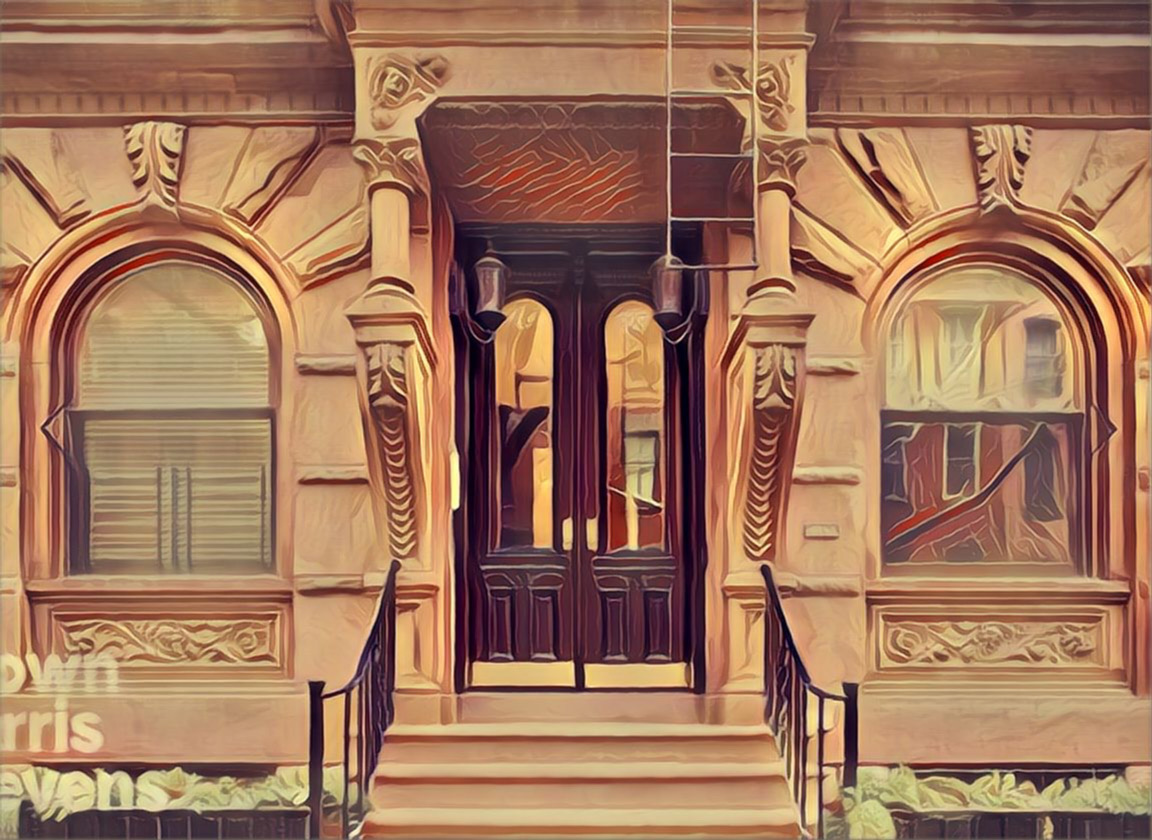
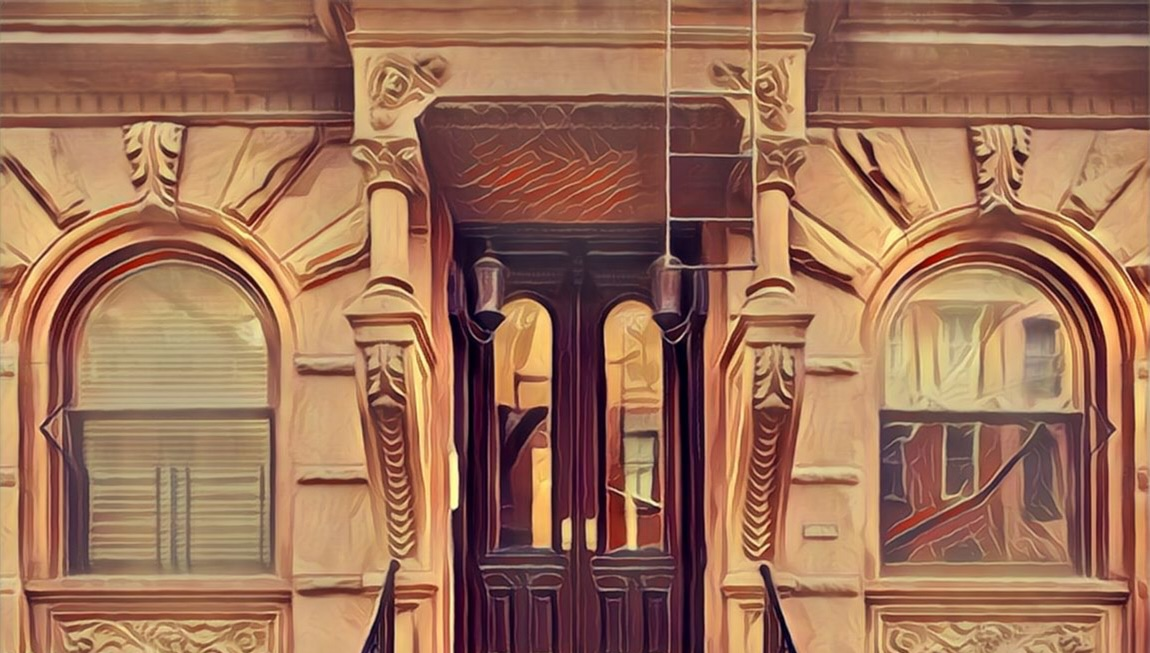
updated hero image, font, and create infoboxes2 component

diff --git a/src/components/HeroImage.jsx b/src/components/HeroImage.jsx
@@ -1,26 +1,30 @@
-import React from "react";
 import Image from "next/image";
+import InfoBoxes2 from "@/components/InfoBoxes2";
+import { libreBaskerville } from "@/assets/fonts/fonts";
 
-import heroImage from "@/assets/images/PRSM_01.jpg";
+import heroImage from "@/assets/images/PRsM_01.jpg";
 
 const HeroImage = () => {
   return (
-    <div className="relative w-full" style={{ paddingTop: "72.92%" }}>
-      {" "}
-      {/* 840/1152 * 100 */}
-      <div className="absolute inset-0 flex items-center justify-center">
+    <div className="relative w-full h-screen">
+      <div className="absolute inset-0">
         <Image
           src={heroImage}
           alt="78 Charles Street"
           layout="fill"
-          objectFit="contain"
+          objectFit="cover"
           priority
         />
       </div>
-      <div className="absolute inset-0 bg-black bg-opacity-30 flex items-center justify-center">
-        <h1 className="text-white text-4xl md:text-5xl lg:text-6xl font-bold text-center">
-          Luxury Living at 78 Charles
+      <div className="absolute inset-0 bg-black bg-opacity-30 flex flex-col items-center justify-center">
+        <h1
+          className={`${libreBaskerville.className} text-white text-4xl md:text-6xl lg:text-8xl font-normal text-center mt-2 mb-24`}
+        >
+          78 Charles Street
         </h1>
+        <div className="w-full max-w-6xl mb-8">
+          <InfoBoxes2 />
+        </div>
       </div>
     </div>
   );

diff --git a/src/components/InfoBoxes2.jsx b/src/components/InfoBoxes2.jsx
@@ -1,0 +1,36 @@
+import InfoBox from "./InfoBox";
+
+const InfoBoxes2 = () => {
+  return (
+    <div className="grid grid-cols-1 md:grid-cols-2 gap-6">
+      <InfoBox
+        heading="For Package Submission"
+        backgroundColor="bg-white bg-opacity-80"
+        textColor="text-black"
+        buttonInfo={{
+          text: "Submit Application",
+          link: "/notfound",
+          backgroundColor: "bg-black",
+        }}
+      >
+        Submit your completed application package for board review and
+        consideration.
+      </InfoBox>
+      <InfoBox
+        heading="For Shareholders"
+        backgroundColor="bg-white bg-opacity-80"
+        textColor="text-black"
+        buttonInfo={{
+          text: "Shareholder Dashboard",
+          link: "/dashboard",
+          backgroundColor: "bg-sky-500",
+        }}
+      >
+        Access shareholder portal for important documents and board
+        communications.
+      </InfoBox>
+    </div>
+  );
+};
+
+export default InfoBoxes2;

diff --git a/src/components/InfoBox.jsx b/src/components/InfoBox.jsx
@@ -1,3 +1,5 @@
+import Link from "next/link";
+
 const InfoBox = ({
   heading,
   backgroundColor = "bg-gray-100",
@@ -9,12 +11,12 @@ const InfoBox = ({
     <div className={`${backgroundColor} p-6 rounded-lg shadow-md`}>
       <h2 className={`${textColor} text-2xl font-bold`}>{heading}</h2>
       <p className={`${textColor} mt-2 mb-4`}>{children}</p>
-      <a
+      <Link
         href={buttonInfo.link}
-        className={`inline-block ${buttonInfo.backgroundColor} text-white rounded-lg px-4 py-2 hover:opacity-80`}
+        className={`inline-block w-1/2 ${buttonInfo.backgroundColor} text-white rounded-lg px-3 py-2 text-center hover:opacity-80`}
       >
         {buttonInfo.text}
-      </a>
+      </Link>
     </div>
   );
 };

diff --git a/src/app/page.jsx b/src/app/page.jsx
@@ -1,8 +1,5 @@
-import Carousel from "@/components/Carousel";
-import About from "@/components/About";
 import Navbar from "@/components/Navbar";
-import InfoBoxes from "@/components/InfoBoxes";
-import Hero from "@/components/Hero";
+import About from "@/components/About";
 import Footer from "@/components/Footer";
 import HeroImage from "@/components/HeroImage";
 
@@ -11,7 +8,6 @@ const LandingPage = () => {
     <>
       <Navbar />
       <HeroImage />
-      <InfoBoxes />
       <About />
       <Footer />
     </>

diff --git a/src/assets/fonts/fonts.jsx b/src/assets/fonts/fonts.jsx
@@ -1,3 +1,8 @@
-import { Nunito } from "next/font/google";
+import { Nunito, Libre_Baskerville } from "next/font/google";
 
 export const nunito = Nunito({ subsets: ["latin"], weight: ["400", "700"] });
+
+export const libreBaskerville = Libre_Baskerville({
+  subsets: ["latin"],
+  weight: ["400", "700"],
+});
